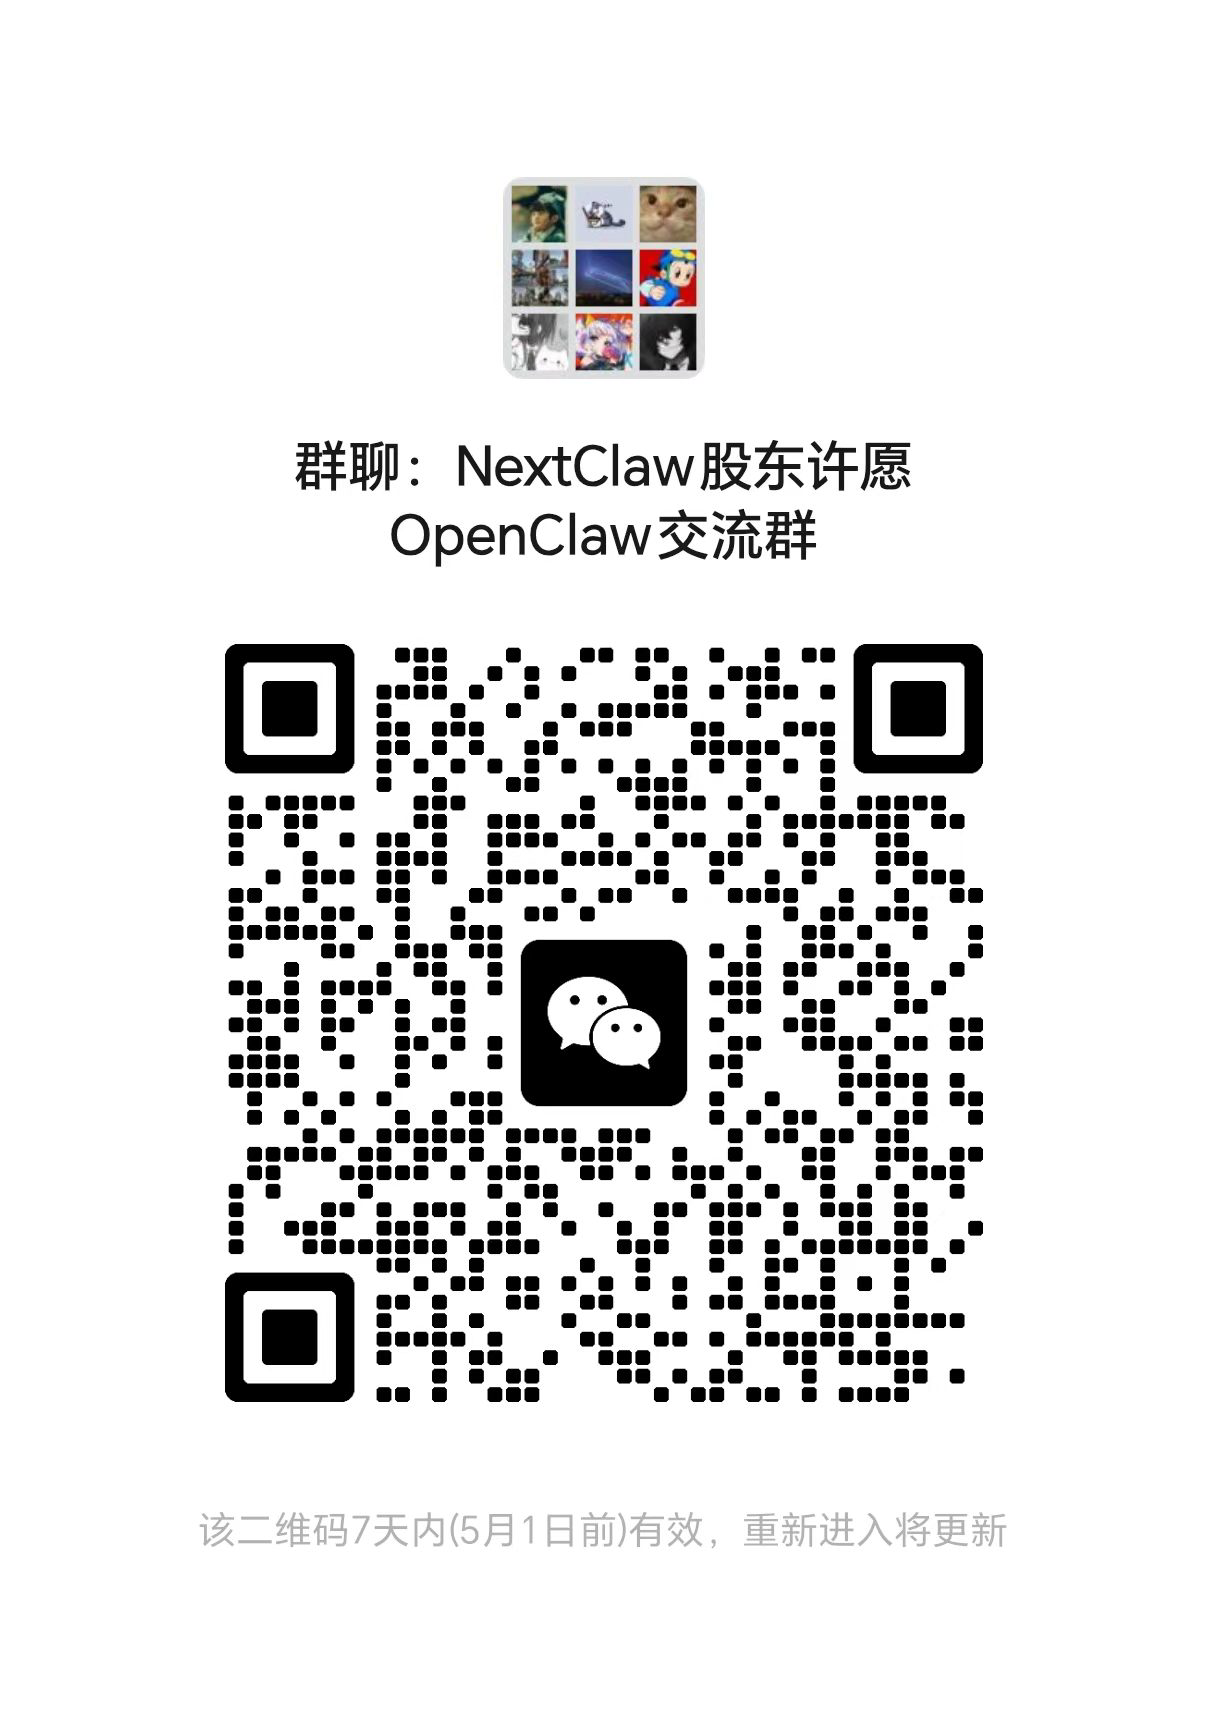
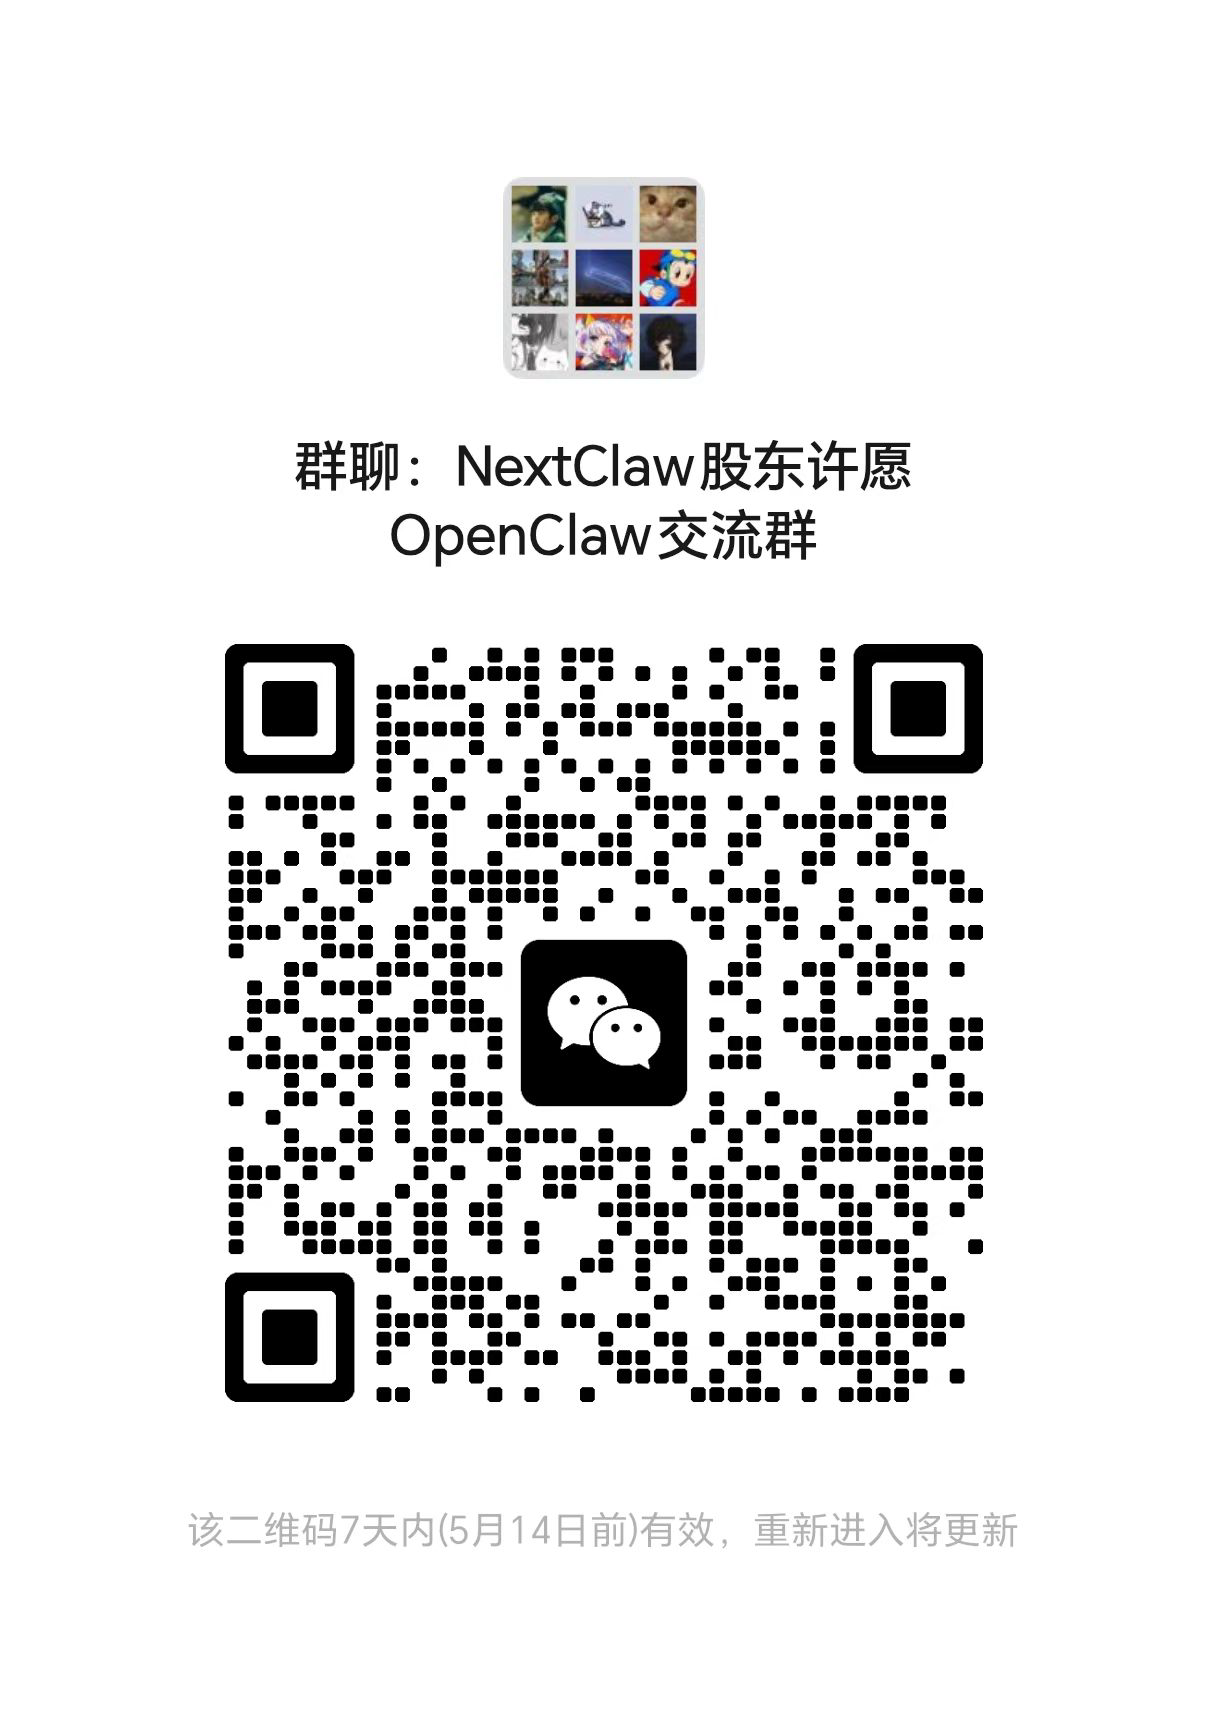
Refresh WeChat group QR code

diff --git a/apps/landing/src/main.ts b/apps/landing/src/main.ts
@@ -154,7 +154,7 @@ const LINKS: Record<'github' | 'npm' | 'discord' | 'wechatGroupImage', string> &
   github: 'https://github.com/Peiiii/nextclaw',
   npm: 'https://www.npmjs.com/package/nextclaw',
   discord: 'https://discord.gg/j4Skbgye',
-  wechatGroupImage: '/contact/nextclaw-contact-wechat-group-2026-04-24.png',
+  wechatGroupImage: '/contact/nextclaw-contact-wechat-group-2026-05-07.png',
   docs: {
     en: 'https://docs.nextclaw.io/en/',
     zh: 'https://docs.nextclaw.io/zh/'

diff --git a/docs/logs/v0.17.34-wechat-group-qr-refresh/README.md b/docs/logs/v0.17.34-wechat-group-qr-refresh/README.md
@@ -1,0 +1,50 @@
+# v0.17.34 WeChat Group QR Refresh
+
+## 迭代完成说明
+
+- 将 GitHub README 使用的 `images/contact/nextclaw-contact-wechat-group.png` 替换为 2026-05-07 收到的新微信群二维码。
+- 将官网 landing 使用的微信群二维码切换到 `apps/landing/public/contact/nextclaw-contact-wechat-group-2026-05-07.png`。
+- 同步更新 `apps/landing/public/contact/nextclaw-contact-wechat-group.png`，保留通用路径可继续复用。
+- 补充 `apps/landing/module-structure.config.json` 的 `main.ts` 根入口声明，让 landing 的真实 Vite 入口与 module-structure 合同一致。
+
+## 测试/验证/验收方式
+
+- `pnpm -C apps/landing tsc`
+- `pnpm -C apps/landing lint`
+- `pnpm -C apps/landing build`
+- `node .agents/skills/post-edit-maintainability-guard/scripts/check-maintainability.mjs --non-feature --paths apps/landing/src/main.ts`
+- `pnpm lint:new-code:governance`
+- `pnpm check:governance-backlog-ratchet`
+- 检查构建产物中包含 `/contact/nextclaw-contact-wechat-group-2026-05-07.png`，并确认 `apps/landing/dist/contact/nextclaw-contact-wechat-group-2026-05-07.png` 是有效 PNG。
+- 线上验收 `https://a29d556d.nextclaw-landing.pages.dev/assets/main-DCojBDWZ.js` 包含 `nextclaw-contact-wechat-group-2026-05-07.png`。
+- 线上验收 `https://a29d556d.nextclaw-landing.pages.dev/contact/nextclaw-contact-wechat-group-2026-05-07.png` 返回 `HTTP/2 200` 与 `content-type: image/png`。
+
+## 发布/部署方式
+
+- 官网 landing 已通过 `pnpm deploy:landing` 发布到 Cloudflare Pages：`https://a29d556d.nextclaw-landing.pages.dev`。
+- 不涉及后端、数据库、migration 或远程 API 冒烟。
+
+## 用户/产品视角的验收步骤
+
+- 打开官网首页的社群入口，点击或查看微信群二维码，应展示 2026-05-07 新图。
+- 打开 GitHub README 中的微信群二维码，应展示同一张新图。
+
+## 可维护性总结汇总
+
+- 本次是社群入口资产刷新，不新增用户能力，不新增业务逻辑。
+- landing 代码只替换一个静态资源路径，非测试代码净增为 0。
+- module-structure 配置只声明既有合法入口 `main.ts`，没有新增协议或放宽全局规则。
+- 没有新增文件组织层级、函数、分支、状态或 fallback。
+- 使用 `post-edit-maintainability-review` 做收尾复核。
+
+## 红区触达与减债记录
+
+### apps/landing/src/main.ts
+
+- 本次是否减债：否
+- 说明：该文件是历史超长 landing 单文件；本次只替换微信群二维码静态资源路径，未继续增加逻辑、分支、函数或状态。
+- 下一步拆分缝：后续应将社群区块与下载区块从 `main.ts` 拆成独立 presenter/view 模块，再降低 landing 单文件体积。
+
+## NPM 包发布记录
+
+不涉及 NPM 包发布。
